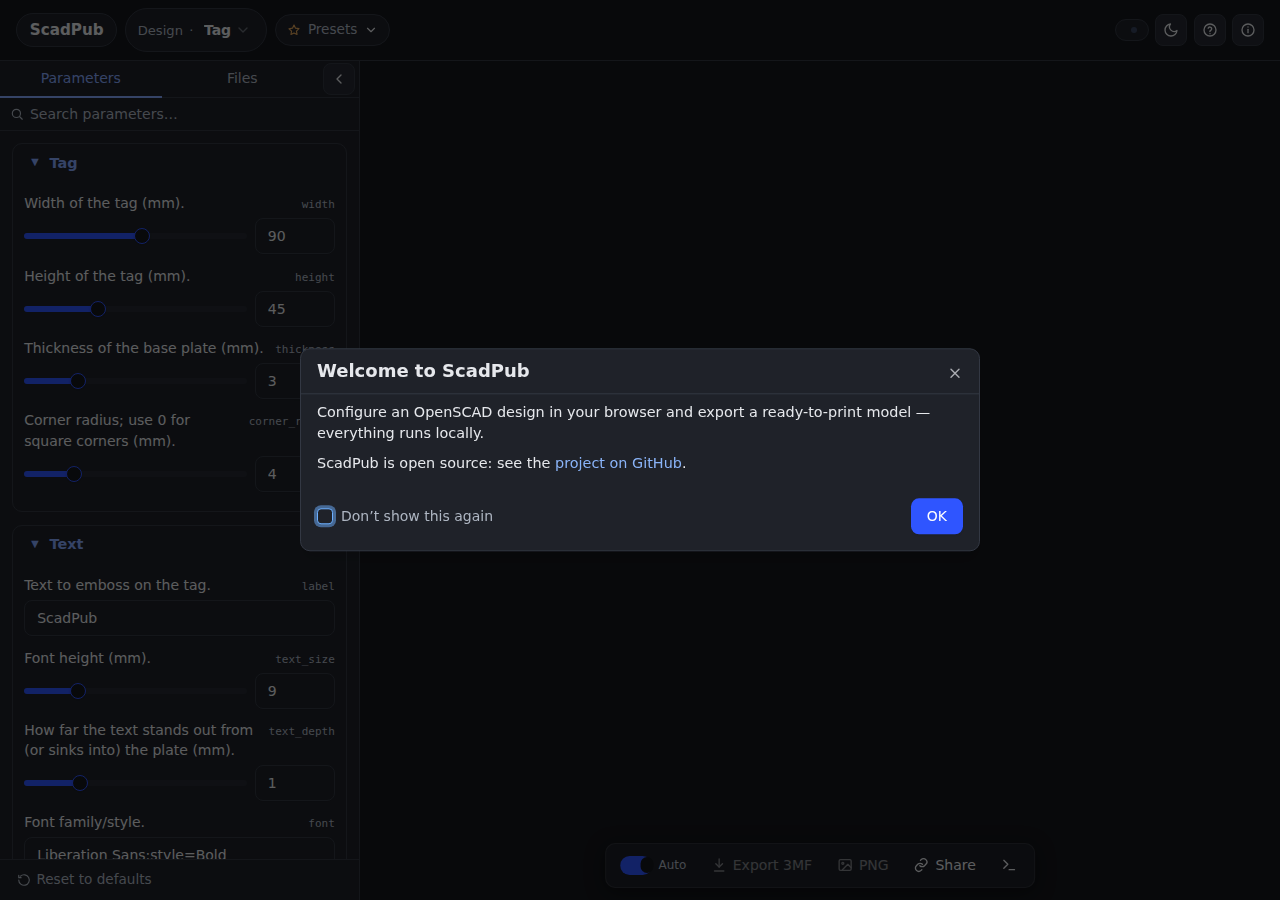
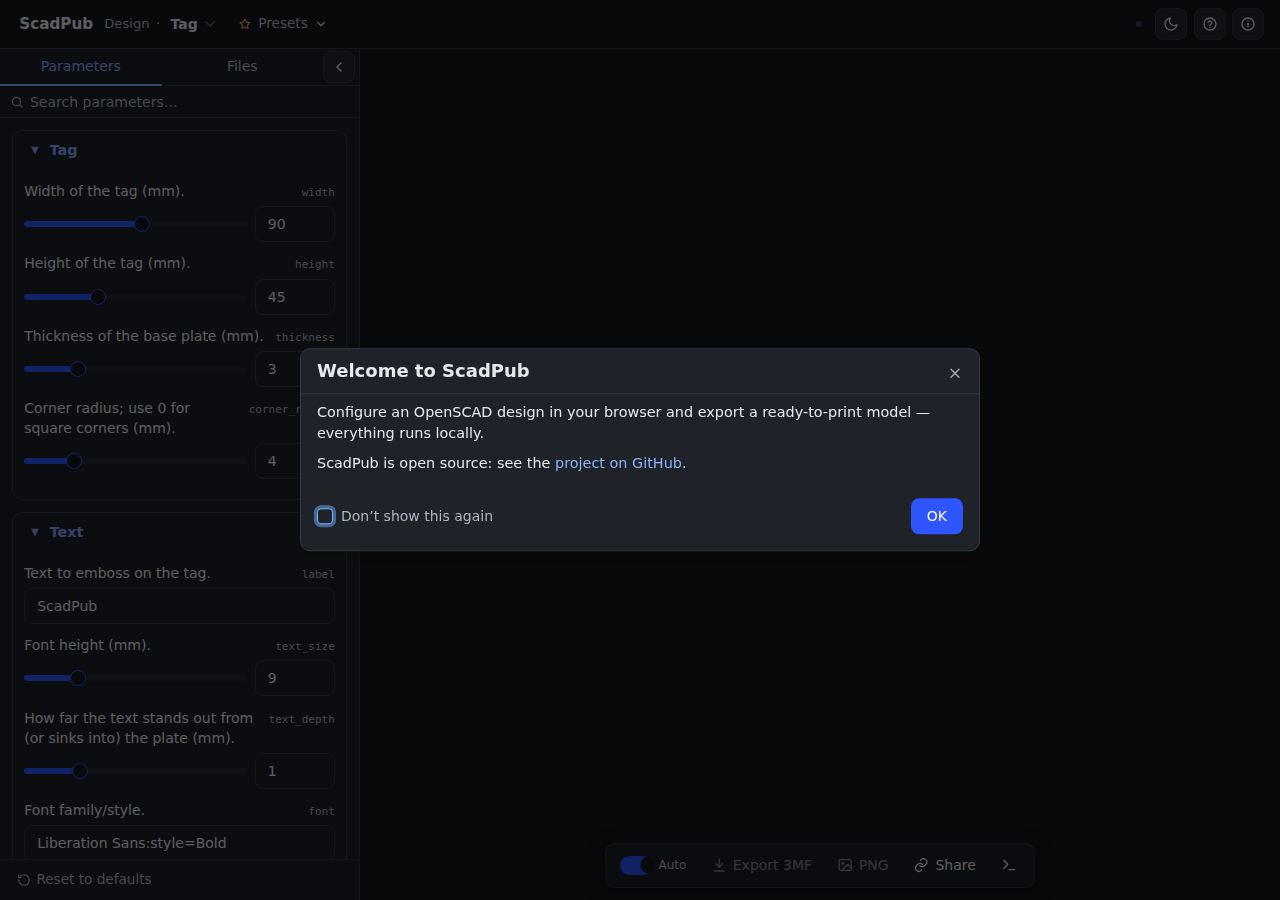
Flatten command-bar / top-bar chrome — no pills
Per UI feedback, drop the fully-rounded "pill" chrome for a simpler, flatter
bar (matches the original design language of rounded rectangles, not pills):

- Design picker and Presets trigger: remove the pill box (.command-bar__pill),
  now flat inline controls (Presets keeps a subtle hover background).
- Status + advisory group: remove the pill box; the green/red status reads as
  a bare dot, the ⚠ badge stays a small rounded-rect.
- Brand title, and the mobile top-bar brand / design picker / design name:
  flat, no boxed pill.
- Install button and the command-bar / mobile-top-bar icon buttons: rounded
  rectangles (var(--radius-sm)) instead of 99px circles — consistent with the
  viewer-HUD buttons, which already used --radius-sm.

Genuinely round controls are untouched (status dot, switch, slider, spinner).
Desktop visual baselines updated for the intentional change.

diff --git a/src/index.css b/src/index.css
@@ -282,15 +282,11 @@ button:disabled { cursor: default; }
   flex-shrink: 0;
 }
 
-/* Shared "pill" surface for the command-bar groups (brand, design, presets) */
-.command-bar__pill {
+/* Flat, unboxed design + presets controls (no pill chrome). */
+.command-bar__design-picker {
   display: inline-flex;
   align-items: center;
   gap: 0.4rem;
-  padding: 0.32rem 0.7rem;
-  background: var(--panel);
-  border: 1px solid var(--line);
-  border-radius: 99px;
   white-space: nowrap;
 }
 
@@ -298,10 +294,7 @@ button:disabled { cursor: default; }
   display: inline-flex;
   align-items: center;
   gap: 0.45rem;
-  padding: 0.3rem 0.8rem;
-  background: var(--panel);
-  border: 1px solid var(--line);
-  border-radius: 99px;
+  padding: 0.2rem;
 }
 .command-bar__title { font-size: 0.95rem; font-weight: 700; }
 
@@ -333,11 +326,19 @@ button:disabled { cursor: default; }
 .command-bar__presets { position: relative; }
 
 .command-bar__presets-btn {
+  display: inline-flex;
+  align-items: center;
+  gap: 0.4rem;
+  padding: 0.3rem 0.45rem;
+  background: transparent;
+  border: 1px solid transparent;
+  border-radius: var(--radius-sm);
+  white-space: nowrap;
   cursor: pointer;
   color: var(--text);
   font: inherit;
 }
-.command-bar__presets-btn:hover:not(:disabled) { border-color: var(--accent); }
+.command-bar__presets-btn:hover:not(:disabled) { background: var(--panel-2); }
 .command-bar__presets-btn .command-bar__presets-label { font-size: 0.85rem; color: var(--muted); }
 .command-bar__presets-btn .command-bar__presets-label strong { color: var(--text); font-weight: 600; }
 .command-bar__presets-btn > svg:first-child { color: var(--warn); }
@@ -363,7 +364,6 @@ button:disabled { cursor: default; }
   gap: 0.35rem;
   font-size: 0.82rem;
   padding: 0.34rem 0.7rem;
-  border-radius: 99px;
 }
 
 .command-bar__right {
@@ -373,25 +373,21 @@ button:disabled { cursor: default; }
   gap: 0.4rem;
 }
 
-/* Status + advisory grouped into one pill */
+/* Status + advisory: flat, no pill box */
 .command-bar__status-group {
   display: inline-flex;
   align-items: center;
   gap: 0.4rem;
-  padding: 0.18rem 0.3rem 0.18rem 0.5rem;
-  background: var(--panel);
-  border: 1px solid var(--line);
-  border-radius: 99px;
 }
 .command-bar__status-group .status-pill {
   background: transparent;
   border: none;
   padding: 0.25rem 0.4rem;
   cursor: pointer;
-  border-radius: 99px;
+  border-radius: var(--radius-sm);
 }
 .command-bar__status-group .status-pill:hover { background: var(--panel-2); }
-.command-bar__right .icon-btn { border-radius: 99px; }
+.command-bar__right .icon-btn { border-radius: var(--radius-sm); }
 
 /* ═══════════════════════════════════════════════════════════════
    PARAM PANEL — docked collapsible/resizable panel (desktop)
@@ -704,12 +700,12 @@ button:disabled { cursor: default; }
   display: inline-flex;
   align-items: center;
   gap: 0.4rem;
-  padding: 0.2rem 0.6rem;
-  border-radius: 99px;
+  padding: 0.2rem 0.4rem;
+  border-radius: var(--radius-sm);
   font-size: 0.78rem;
   font-weight: 500;
-  background: var(--panel-2);
-  border: 1px solid var(--line);
+  background: transparent;
+  border: 1px solid transparent;
   white-space: nowrap;
   line-height: 1.3;
 }
@@ -964,10 +960,7 @@ button:disabled { cursor: default; }
   display: inline-flex;
   align-items: center;
   gap: 0.4rem;
-  padding: 0.3rem 0.7rem;
-  background: var(--panel);
-  border: 1px solid var(--line);
-  border-radius: 99px;
+  padding: 0.3rem 0.2rem;
   font-size: 0.92rem;
   font-weight: 700;
   white-space: nowrap;
@@ -977,10 +970,6 @@ button:disabled { cursor: default; }
 .mobile-top-bar__design {
   display: inline-flex;
   align-items: center;
-  padding: 0.28rem 0.55rem;
-  background: var(--panel);
-  border: 1px solid var(--line);
-  border-radius: 99px;
 }
 .mobile-top-bar__design select {
   background: transparent;
@@ -992,17 +981,14 @@ button:disabled { cursor: default; }
   max-width: 7rem;
 }
 .mobile-top-bar__design-name {
-  padding: 0.3rem 0.7rem;
-  background: var(--panel);
-  border: 1px solid var(--line);
-  border-radius: 99px;
+  padding: 0.3rem 0.2rem;
   font-size: 0.85rem;
   font-weight: 600;
   white-space: nowrap;
 }
 
 .mobile-top-bar .advisory-badge { margin-left: auto; }
-.mobile-top-bar .icon-btn { border-radius: 99px; }
+.mobile-top-bar .icon-btn { border-radius: var(--radius-sm); }
 
 /* ═══════════════════════════════════════════════════════════════
    MOBILE FOOTER — fixed actions bar below the bottom sheet

diff --git a/src/components/CommandBar.tsx b/src/components/CommandBar.tsx
@@ -98,7 +98,7 @@ export const CommandBar = memo(function CommandBar({
       </div>
 
       {/* Design picker — always visible */}
-      <div className="command-bar__pill command-bar__design-picker">
+      <div className="command-bar__design-picker">
         <span className="command-bar__design-label">Design</span>
         <span className="command-bar__sep" aria-hidden="true">·</span>
         {designs.length > 1 ? (
@@ -112,7 +112,7 @@ export const CommandBar = memo(function CommandBar({
       <Popover open={showPresets} onOpenChange={setShowPresets}>
         <PopoverTrigger asChild>
           <button
-            className="command-bar__pill command-bar__presets-btn"
+            className="command-bar__presets-btn"
             aria-label={`Presets${presetName ? ` — ${presetName}` : ""}`}
           >
             {presetName ? <StarFilledIcon size={14} /> : <StarIcon size={14} />}
@@ -162,7 +162,7 @@ export const CommandBar = memo(function CommandBar({
         {canInstall && schema.ui?.install !== "off" && (
           <Button
             size="sm"
-            className="command-bar__install-btn rounded-full"
+            className="command-bar__install-btn"
             onClick={onInstall}
             title="Install as app"
           >